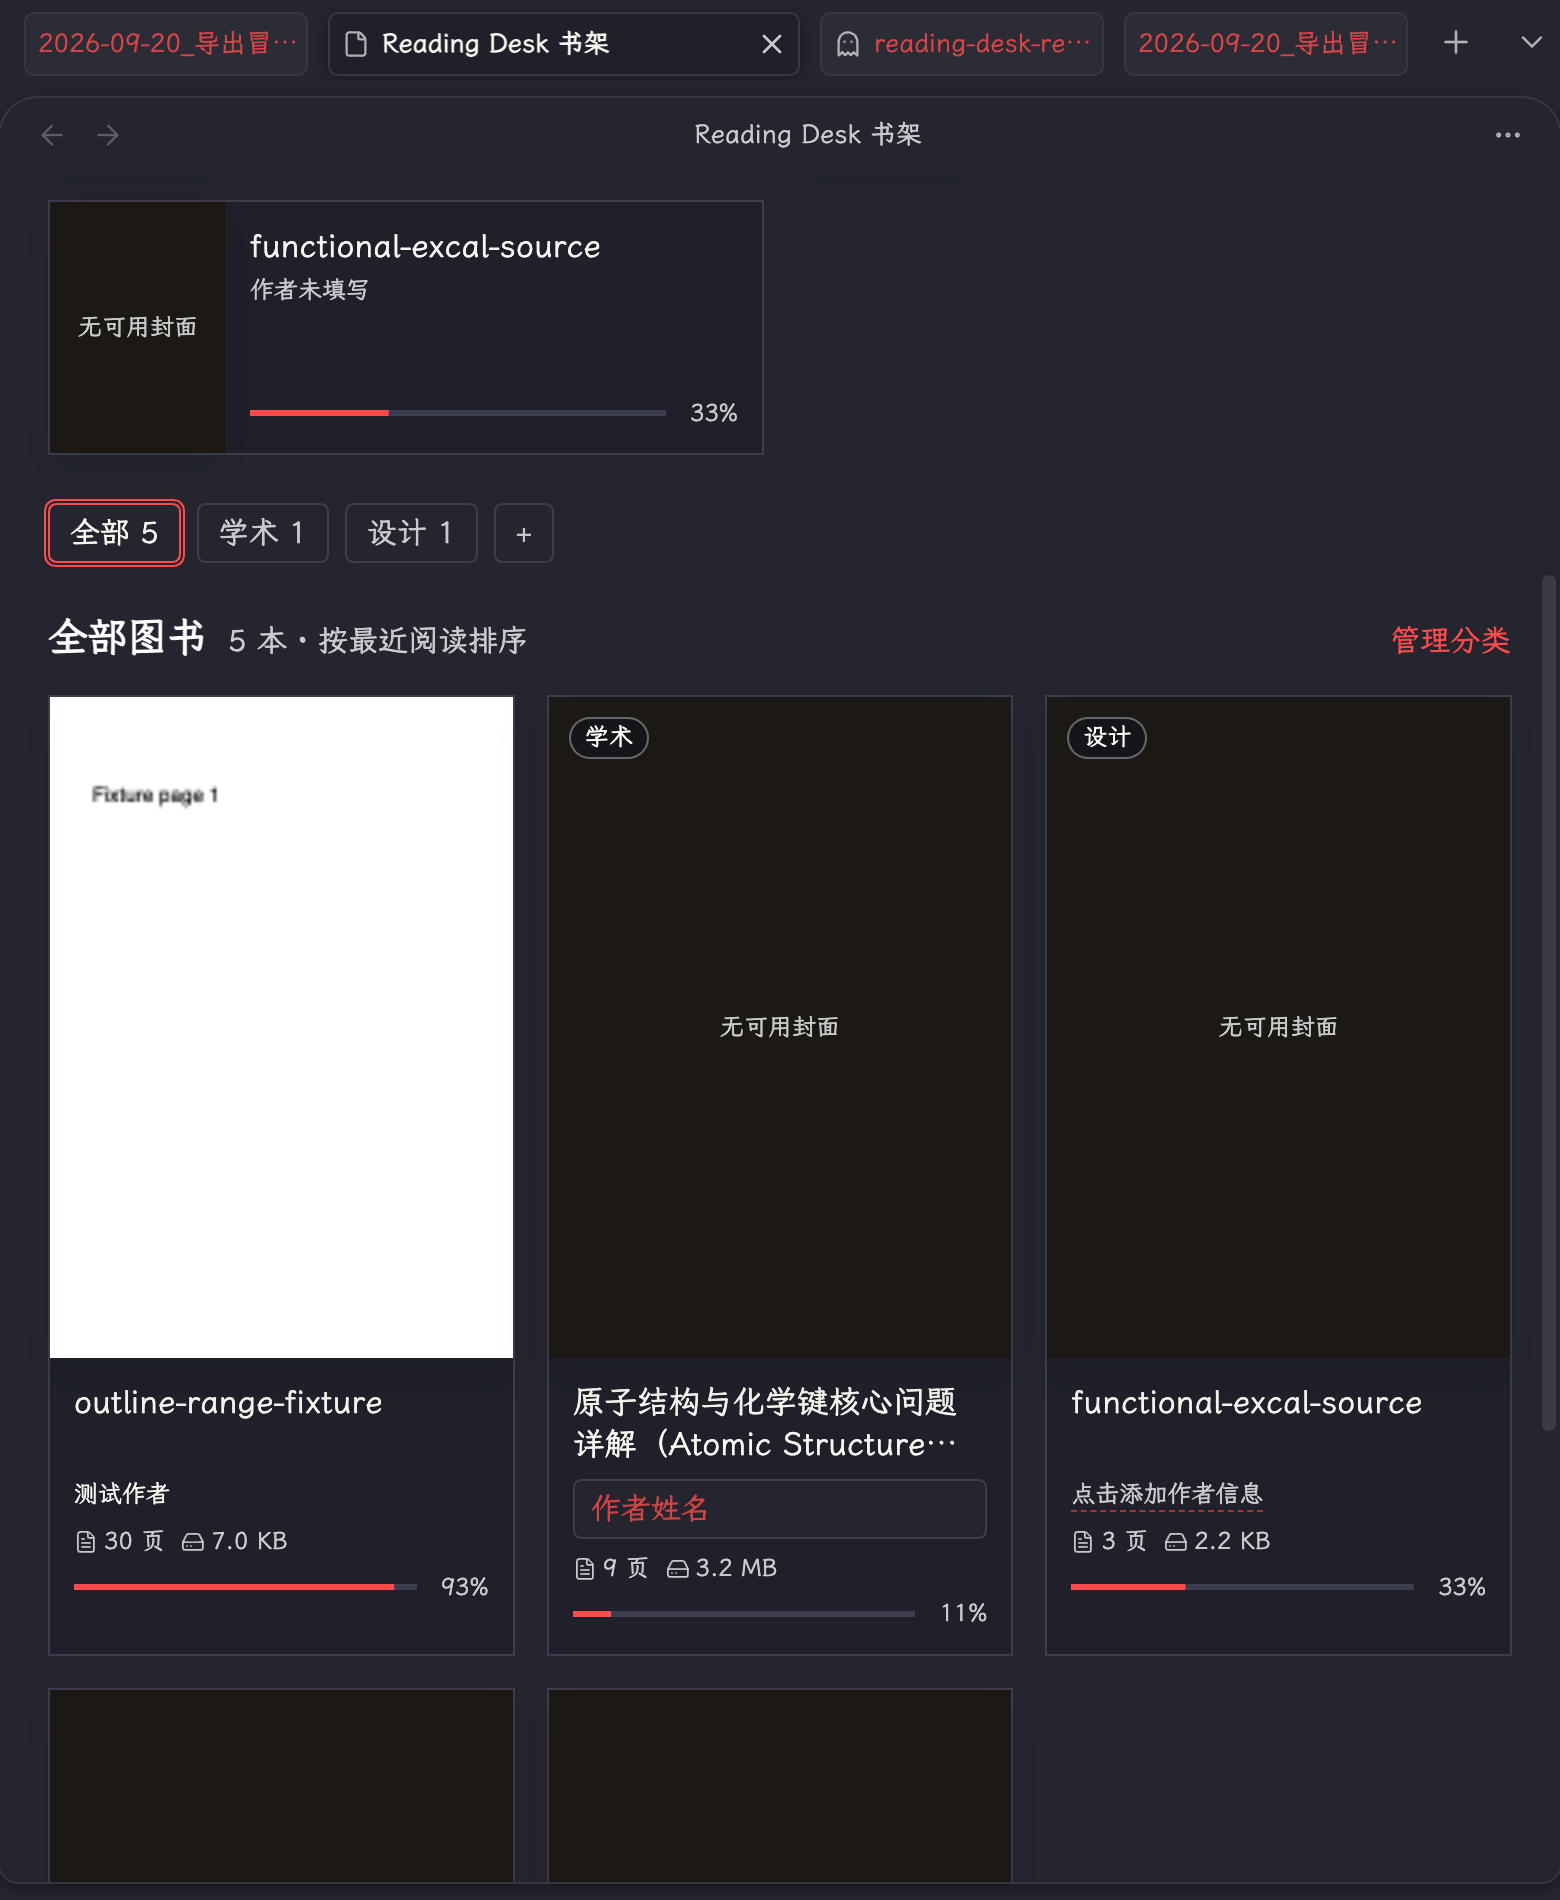
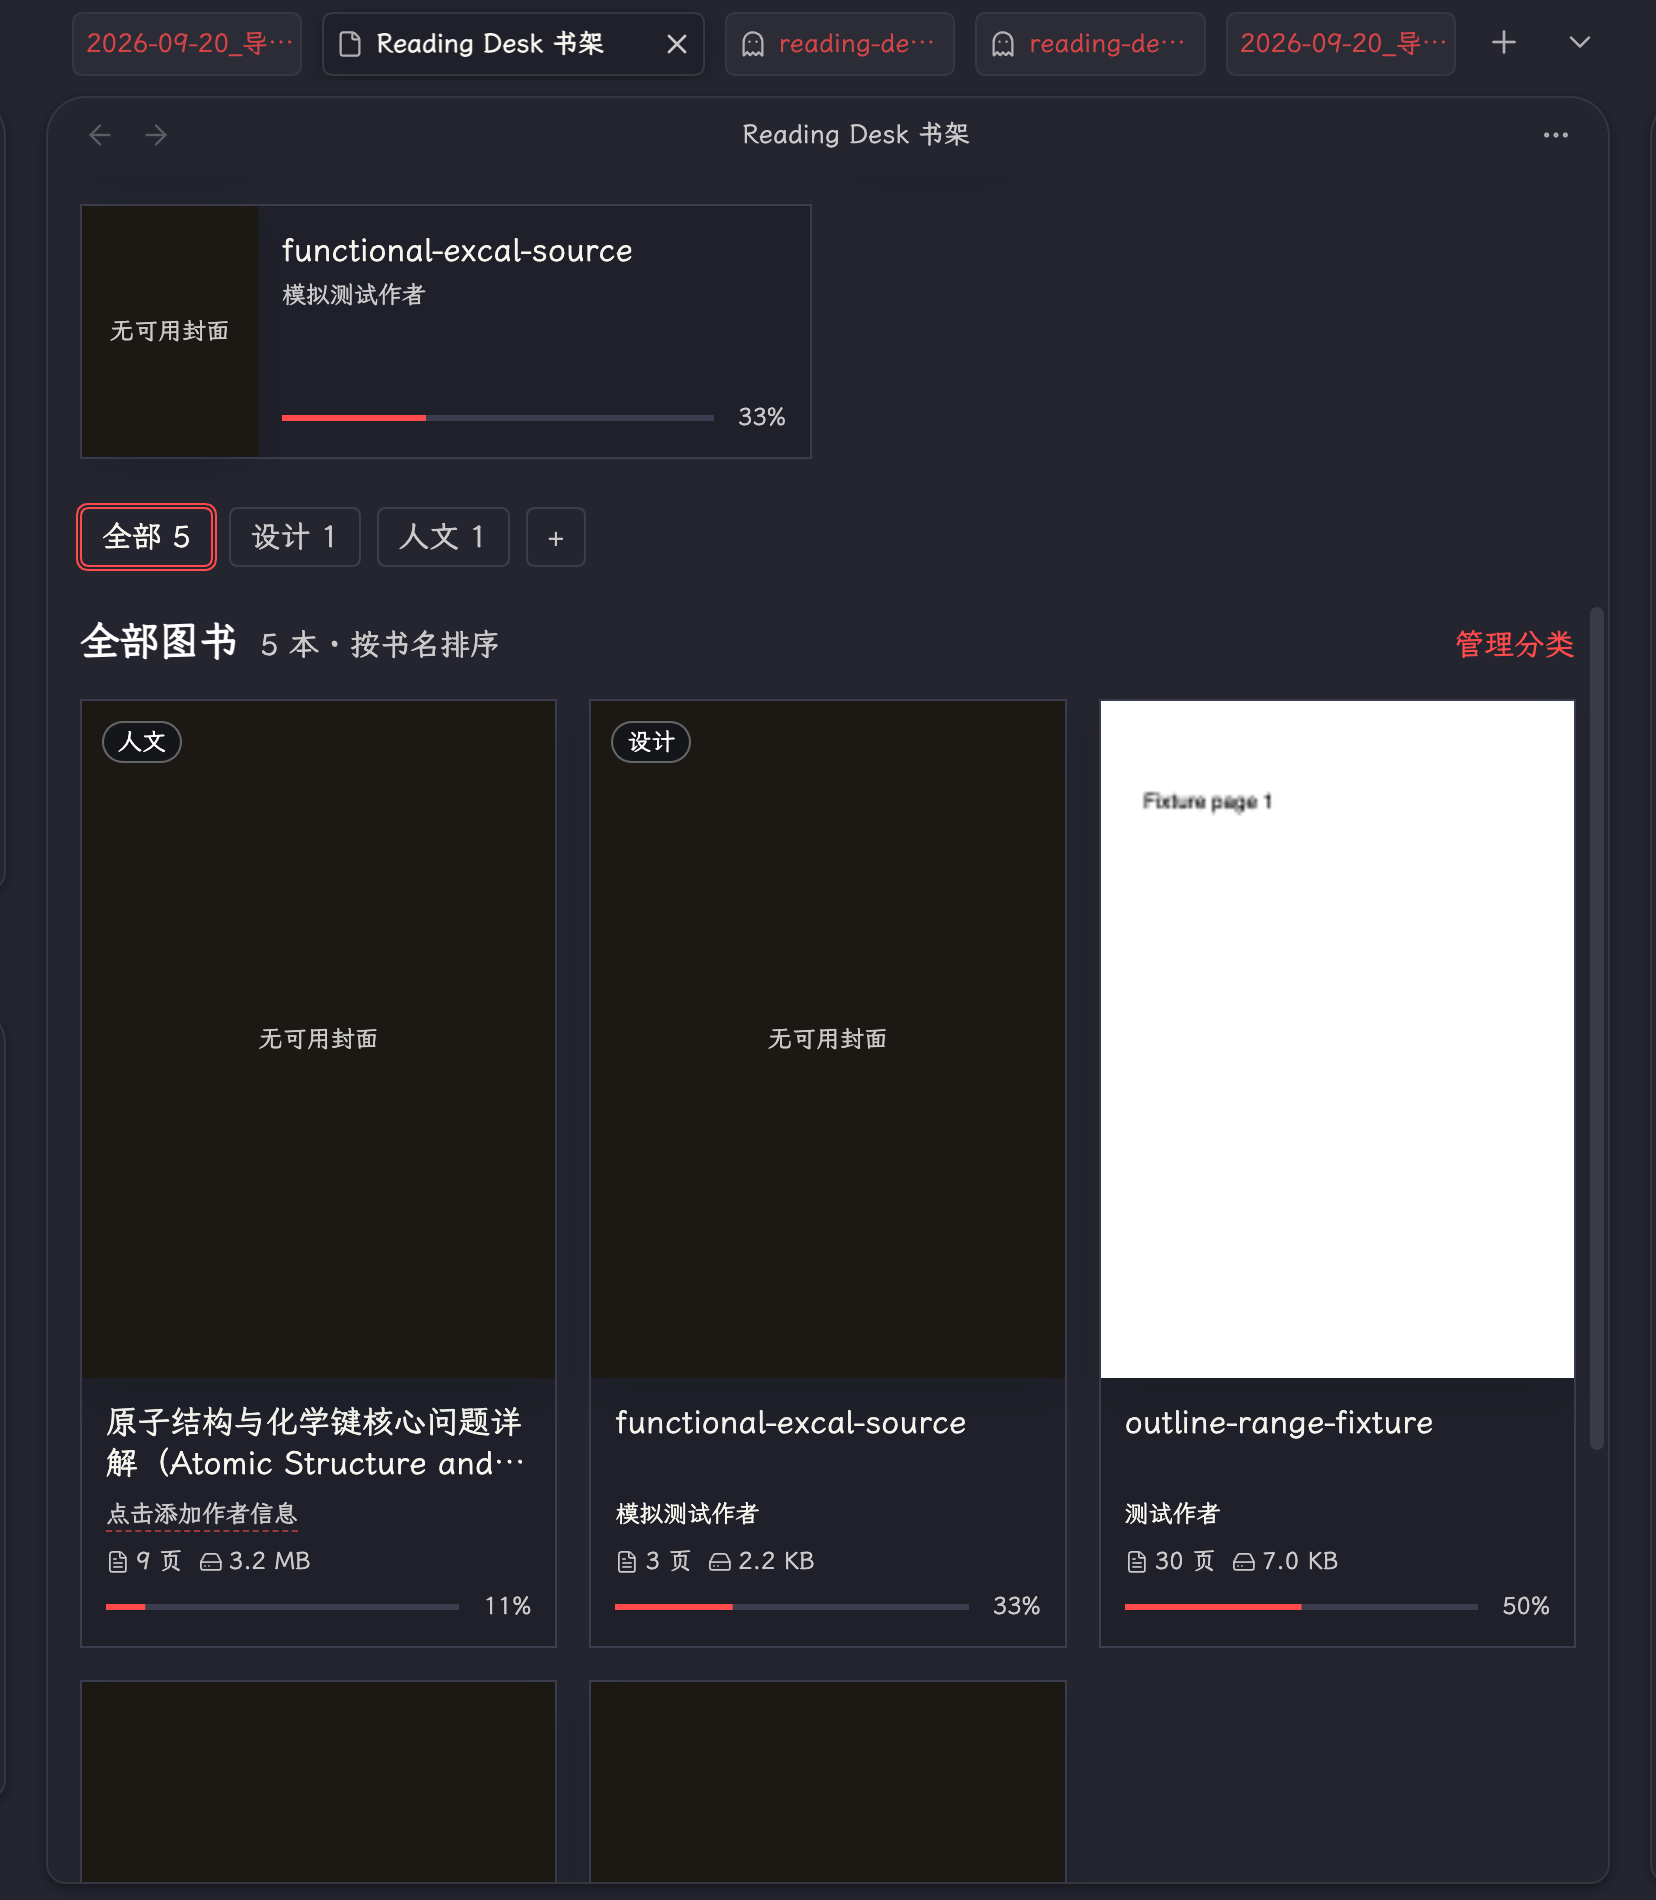
fix: ledger title left-clips via block display; narrow-container padding and search wrap
- host button chrome (flex/center) center-clipped overflowing ledger titles and
  defeated ellipsis; display:block restores left clip with trailing ellipsis
- workspace padding moved from container to frame so the 880 container query
  can actually shrink it (container cannot query itself)
- search takes flex-basis: 100% under 880 so it owns its row
- ledger row keydown only opens when the row itself is focused (no double-open)

diff --git a/assets/styles.css b/assets/styles.css
@@ -355,8 +355,10 @@
 .rd-crop-drag-handle img, .rd-crop-drag-preview { display: block; max-width: 112px; max-height: 72px; }
 
 /* Shelf. The leaf, not the window, is the responsive surface, so the shelf
- * declares its own inline-size container (same pattern as the Reader). */
-.rd-shelf { padding: 24px 24px 72px; container-type: inline-size; }
+ * declares its own inline-size container (same pattern as the Reader); the
+ * workspace padding lives on the frame so the container query can shrink it. */
+.rd-shelf { container-type: inline-size; }
+.rd-shelf-frame { max-width: 1368px; margin: 0 auto; min-width: 0; padding: 24px 24px 72px; }
 .rd-shelf-frame { max-width: 1368px; margin: 0 auto; min-width: 0; }
 .rd-shelf-header { display: flex; justify-content: space-between; align-items: flex-start; gap: 24px; margin-bottom: 16px; }
 .rd-shelf-title-wrap { min-width: 0; }
@@ -445,7 +447,9 @@
 .rd-ledger-book { display: grid; grid-template-columns: 42px minmax(0, 1fr); gap: 10px; align-items: center; min-width: 220px; }
 .rd-book-cover--ledger { width: 42px; box-shadow: none; border: 1px solid var(--rd-line); }
 .rd-ledger-book-text { min-width: 0; display: grid; gap: 2px; }
-.rd-shelf .rd-ledger-title { min-height: 0; padding: 0; border-color: transparent; background: transparent; box-shadow: none; font-weight: 500; justify-self: start; max-width: 100%; white-space: nowrap; overflow: hidden; text-overflow: ellipsis; text-align: left; }
+/* Host buttons render as centered flex boxes, which center-clips overflowing
+ * titles and defeats ellipsis; a block title clips from the left instead. */
+.rd-shelf .rd-ledger-title { display: block; min-height: 0; padding: 0; border-color: transparent; background: transparent; box-shadow: none; font-weight: 500; justify-self: start; max-width: 100%; white-space: nowrap; overflow: hidden; text-overflow: ellipsis; text-align: left; }
 .rd-ledger-path { color: var(--rd-ink-muted); font-size: 11px; white-space: nowrap; overflow: hidden; text-overflow: ellipsis; max-width: 44ch; }
 .rd-ledger .rd-progress-row { min-width: 130px; }
 .rd-table-editor, .rd-rating-select, .rd-ledger-category-select { min-width: 0; max-width: 100%; }
@@ -514,10 +518,10 @@
 	.rd-shelf-navigation { grid-template-columns: 190px minmax(0, 1fr); }
 }
 @container (max-width: 880px) {
-	.rd-shelf { padding: 16px 16px 56px; }
+	.rd-shelf-frame { padding: 16px 16px 56px; }
 	.rd-shelf-header, .rd-shelf-toolbar { flex-wrap: wrap; }
 	.rd-shelf-actions { width: 100%; }
-	.rd-shelf-search { min-width: 0; width: 100%; max-width: none; }
+	.rd-shelf-search { min-width: 0; flex-basis: 100%; max-width: none; }
 	.rd-shelf-navigation { grid-template-columns: minmax(0, 1fr); }
 	.rd-nav-sidebar { position: static; }
 	.rd-nav-category-list { display: flex; overflow: auto; border: 0; gap: 8px; }

diff --git a/test/views/shelf/ShelfStyles.test.ts b/test/views/shelf/ShelfStyles.test.ts
@@ -10,9 +10,10 @@ function rule(selector: string): string {
 
 describe('Shelf layout contract (ADR 0007)', () => {
 	it('centers content in a 1368px frame over a 24px workspace', () => {
-		expect(styles).toMatch(/^\.rd-shelf \{ padding: 24px 24px 72px; container-type: inline-size; \}$/m);
+		expect(styles).toMatch(/^\.rd-shelf \{ container-type: inline-size; \}$/m);
 		expect(rule('.rd-shelf-frame')).toContain('max-width: 1368px');
 		expect(rule('.rd-shelf-frame')).toContain('margin: 0 auto');
+		expect(rule('.rd-shelf-frame')).toContain('padding: 24px 24px 72px');
 	});
 
 	it('breaks on the shelf container, not the host window', () => {

diff --git a/src/views/shelf/LedgerView.ts b/src/views/shelf/LedgerView.ts
@@ -47,7 +47,7 @@ function ledgerRow(document: Document, book: LibraryBook, categories: LibraryCat
 		void host.openBook(book);
 	});
 	row.addEventListener('keydown', event => {
-		if (event.isComposing || isEditorTarget(event)) return;
+		if (event.isComposing || isEditorTarget(event) || event.target !== row) return;
 		if (event.key === 'Enter' || event.key === ' ') {
 			event.preventDefault();
 			void host.openBook(book);

diff --git a/src/views/ShelfView.ts b/src/views/ShelfView.ts
@@ -262,7 +262,8 @@ export class ShelfView {
 		return heading;
 	}
 
-	private createChips(): HTMLElement {		return createCategoryChips({
+	private createChips(): HTMLElement {
+		return createCategoryChips({
 			books: this.books,
 			categories: this.categories,
 			selectedId: this.categoryId,
